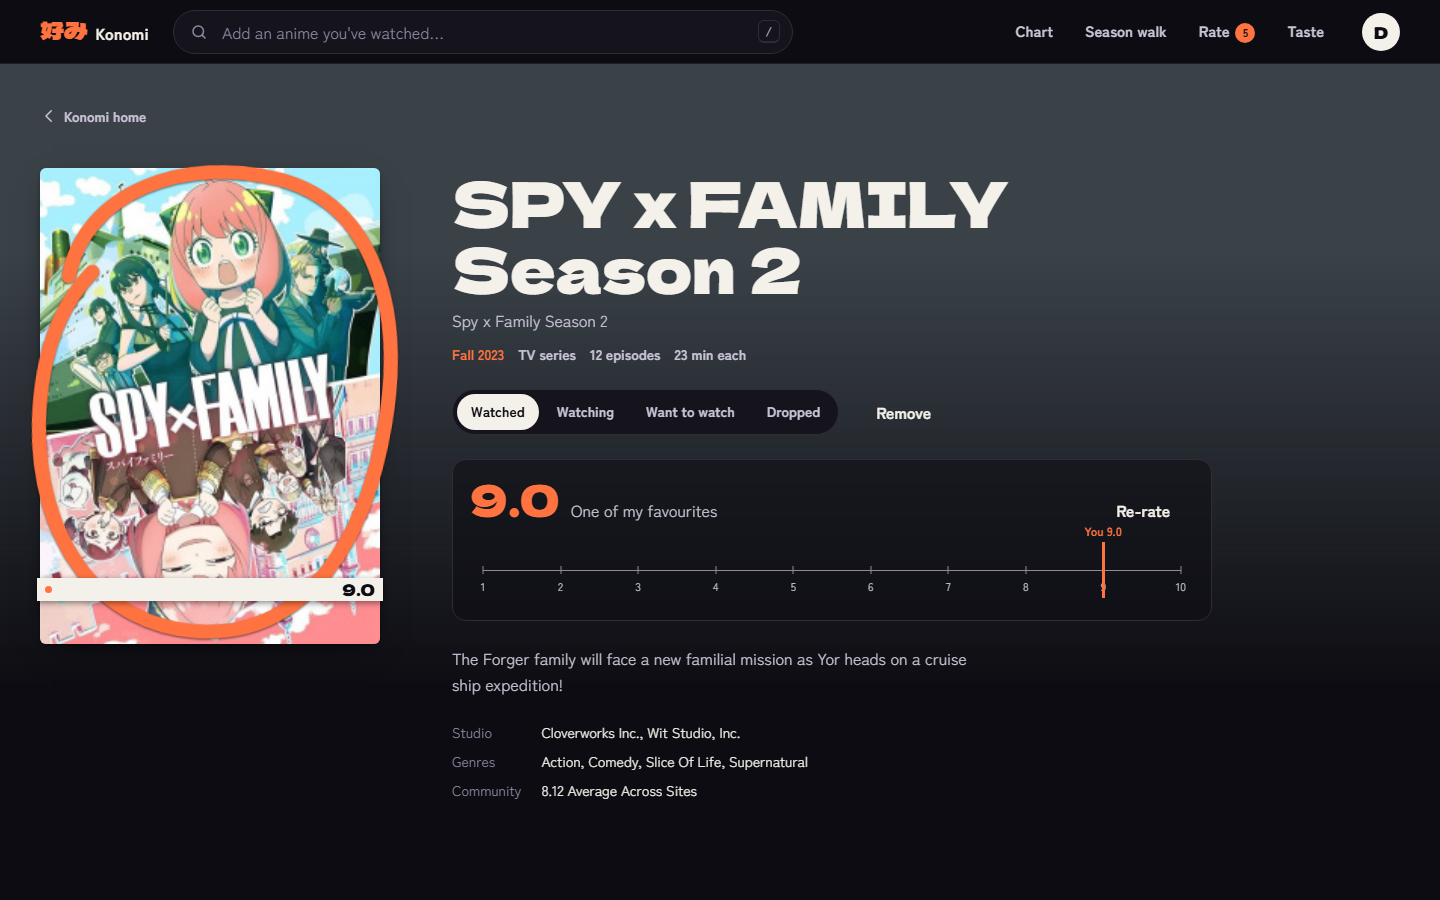
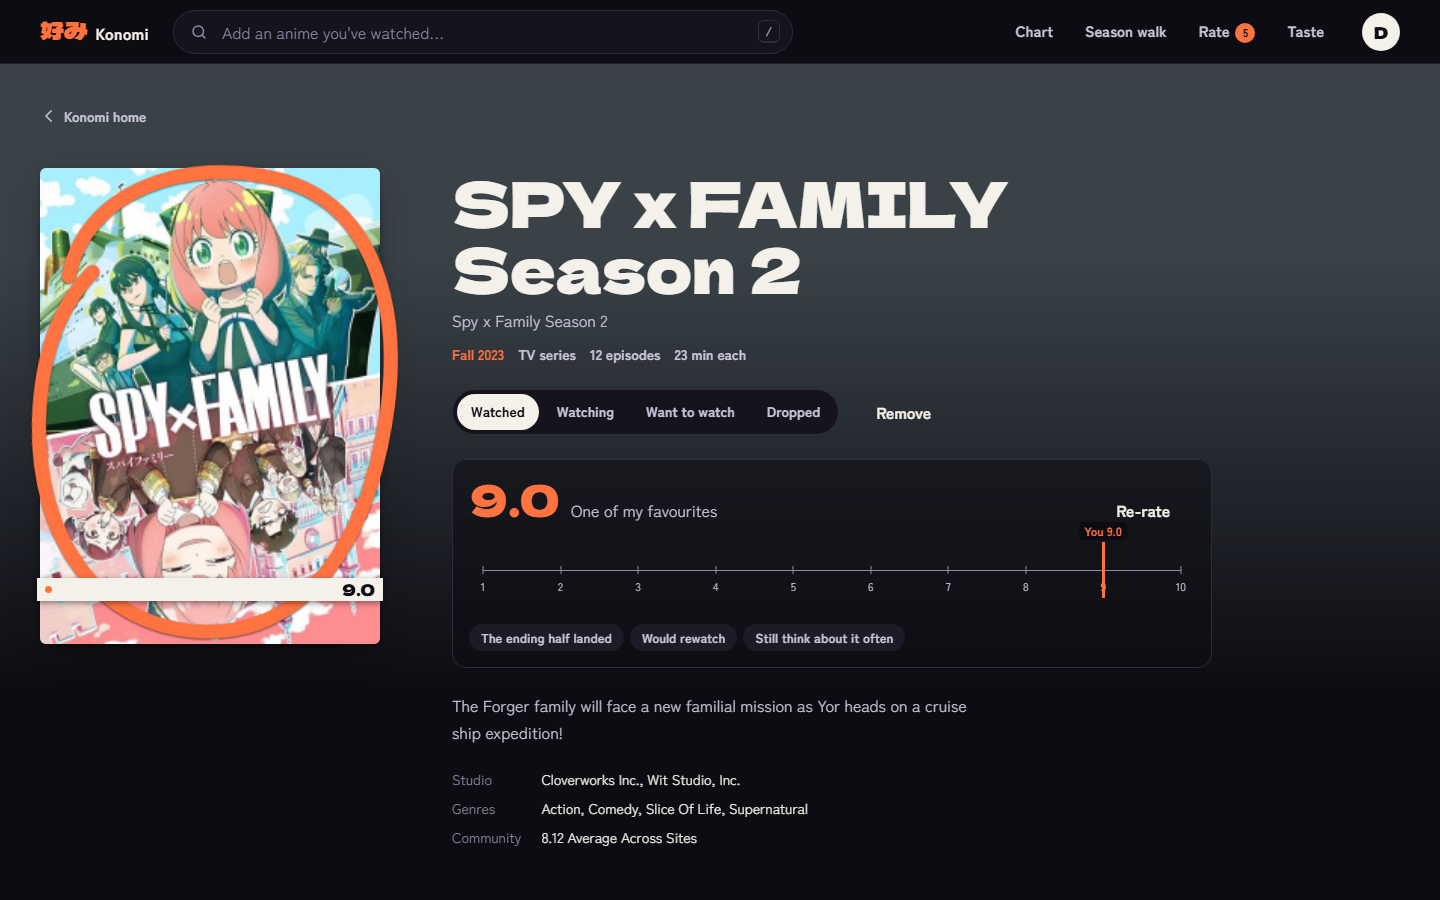
Show rating follow-up answers on title pages; fix worker lint error

Changed region(s): [[0.3125, 0.6844, 0.6875, 0.9333]]

diff --git a/web/src/features/anime/AnimePage.tsx b/web/src/features/anime/AnimePage.tsx
@@ -9,6 +9,13 @@ import type { AnimeDetail, Status } from '../../lib/types'
 import { useRater } from '../rate/RaterContext'
 import './anime.css'
 
+/** The rating panel's follow-up answers, said back in plain words. */
+const FACET_SAID: Record<string, Record<string, string>> = {
+  rewatch: { Yes: 'Would rewatch', Maybe: 'Might rewatch', No: 'Once was enough' },
+  still_think: { Often: 'Still think about it often', Sometimes: 'Think about it sometimes', Rarely: 'Rarely think about it' },
+  ending: { Yes: 'The ending landed', 'Kind of': 'The ending half landed', No: 'The ending missed' },
+}
+
 const TYPE: Record<string, string> = { TV: 'TV series', MOVIE: 'Movie', ONA: 'Web series', OVA: 'OVA', SPECIAL: 'Special' }
 
 function minutes(s: number | null) {
@@ -94,6 +101,11 @@ export function AnimePage() {
                     <span className="muted">{tierLabel}</span>
                     <button className="btn btn-ghost" onClick={() => rater.prompt(a)}>Re-rate</button></p>
                   <ScoreRail score={entry.score} predicted={entry.predicted} />
+                  {Object.keys(entry.facets ?? {}).length > 0 && (
+                    <ul className="anime-facets" aria-label="What you said about it">
+                      {Object.keys(FACET_SAID).map((k) => FACET_SAID[k][entry.facets[k]] && <li key={k}>{FACET_SAID[k][entry.facets[k]]}</li>)}
+                    </ul>
+                  )}
                 </>
               ) : (
                 <button className="btn btn-primary" onClick={() => rater.prompt(a)}>Rate it</button>

diff --git a/web/src/search/worker.ts b/web/src/search/worker.ts
@@ -6,7 +6,6 @@ import { buildIndex, search } from './rank'
 type In = { type: 'query'; id: number; q: string; limit?: number } | { type: 'lookup'; id: number; ids: number[] }
 
 let idx: ReturnType<typeof buildIndex> | null = null
-let ready: Promise<void>
 
 async function load(): Promise<void> {
   let cached: { version: string; items: IndexRow[] } | undefined
@@ -30,7 +29,7 @@ async function load(): Promise<void> {
   else postMessage({ type: 'ready', count: cached.items.length })
 }
 
-ready = load()
+const ready = load()
 
 onmessage = async (e: MessageEvent<In>) => {
   await ready

diff --git a/web/src/features/anime/anime.css b/web/src/features/anime/anime.css
@@ -35,3 +35,5 @@
 .prof-private { display: grid; gap: var(--s3); justify-items: center; text-align: center; padding-top: 16vh; }
 .prof-private h1 { font-size: clamp(28px, 4vw, 44px); }
 .anime-back { grid-column: 1 / -1; margin-bottom: calc(clamp(24px, 5vw, 80px) * -1 + 12px); }
+.anime-facets { list-style: none; display: flex; flex-wrap: wrap; gap: 6px; margin: var(--s3) 0 var(--s2); padding: 0; }
+.anime-facets li { padding: 4px 12px; border-radius: var(--r-pill); background: var(--ink-3); font-size: 13px; font-weight: 700; color: var(--paper-2); }
